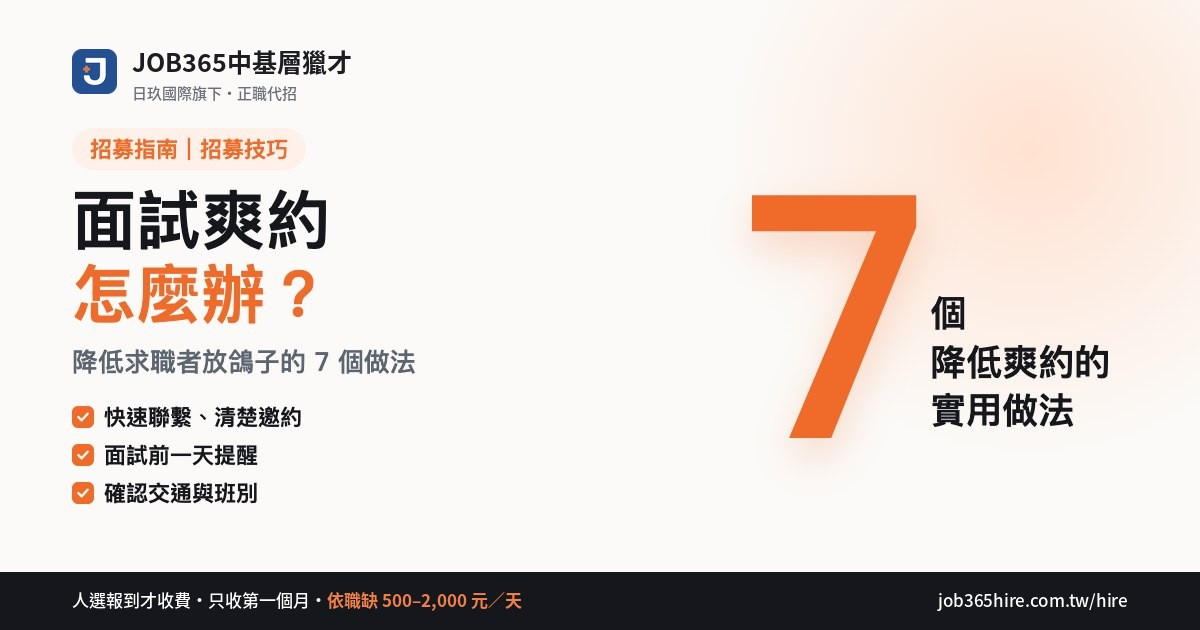
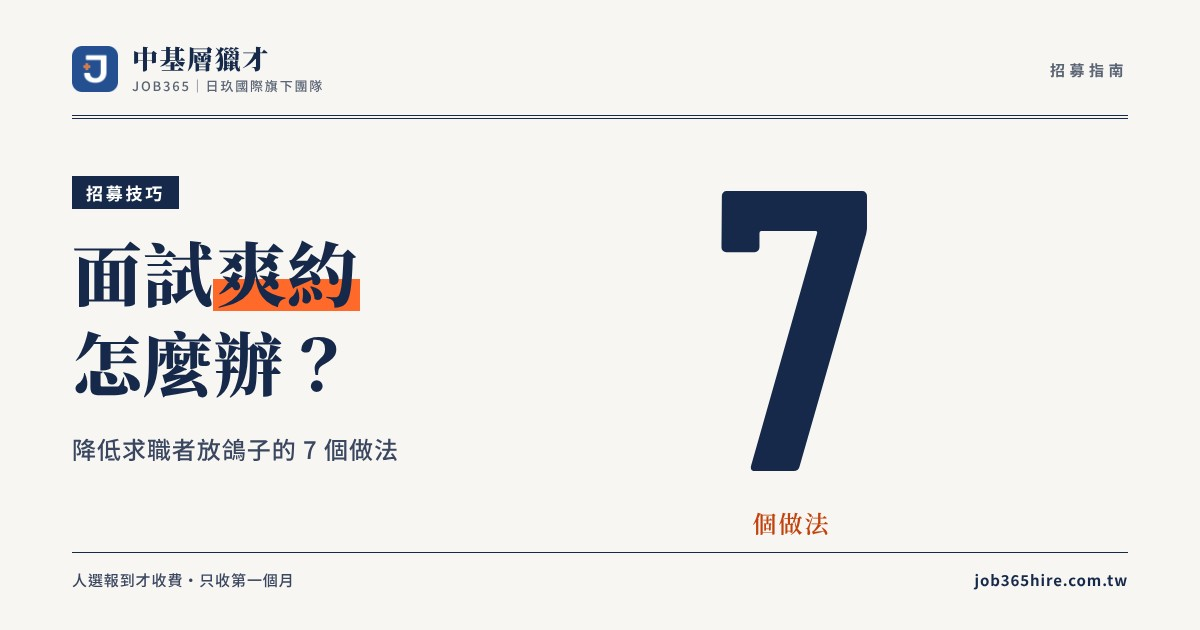
招募指南封面改成報紙風（7 張），補設備工程師、新竹薪資兩篇封面
Claude-Session: https://claude.ai/code/session_01QrdtCWQutDZ8DS6ZUmwoLm

diff --git a/hire/guide/what-is-recruitment-outsourcing.html b/hire/guide/what-is-recruitment-outsourcing.html
@@ -79,10 +79,10 @@ visibleID = setInterval(() => {
 <meta property="og:type" content="article">
 <meta property="og:title" content="代招是什麼？正職代招和派遣、人力銀行、獵頭一次比較">
 <meta property="og:description" content="代招（正職代招、委託招募）是企業委託代招團隊找人、篩人，人選錄取後直接成為企業自己的正職員工，勞健保由企業投保。本文整理代招和派遣、人力銀行、獵頭的差別，代招收費的法定上限、委託流程、不適合用代招的情況與常見問題。">
-<meta property="og:image" content="https://job365hire.com.tw/hire/guide/cover-what-is-recruitment-outsourcing.jpg?v=2">
+<meta property="og:image" content="https://job365hire.com.tw/hire/guide/cover-what-is-recruitment-outsourcing.jpg?v=3">
 <meta property="og:url" content="https://job365hire.com.tw/hire/guide/what-is-recruitment-outsourcing.html">
 <script type="application/ld+json">
-[{"@context": "https://schema.org", "@type": "Article", "headline": "代招是什麼？正職代招和派遣、人力銀行、獵頭一次比較", "datePublished": "2026-10-30", "dateModified": "2026-11-12", "about": "正職代招", "keywords": "代招,代招是什麼,正職代招,委託招募,代招費用,代招收費上限,代招公司,代招 派遣 差別,代招 勞健保,中基層獵才,人力仲介,人力仲介 代招 差別", "inLanguage": "zh-Hant-TW", "image": "https://job365hire.com.tw/hire/guide/cover-what-is-recruitment-outsourcing.jpg?v=2", "author": {"@id": "https://job365hire.com.tw/#org"}, "publisher": {"@id": "https://job365hire.com.tw/#org"}, "mainEntityOfPage": "https://job365hire.com.tw/hire/guide/what-is-recruitment-outsourcing.html", "description": "代招（正職代招、委託招募）是企業委託代招團隊找人、篩人，人選錄取後直接成為企業自己的正職員工，勞健保由企業投保。本文整理代招和派遣、人力銀行、獵頭的差別，代招收費的法定上限、委託流程、不適合用代招的情況與常見問題。"}, {"@context": "https://schema.org", "@type": "BreadcrumbList", "itemListElement": [{"@type": "ListItem", "position": 1, "name": "JOB365", "item": "https://job365hire.com.tw/"}, {"@type": "ListItem", "position": 2, "name": "正職代招", "item": "https://job365hire.com.tw/hire/"}, {"@type": "ListItem", "position": 3, "name": "招募指南", "item": "https://job365hire.com.tw/hire/guide/"}, {"@type": "ListItem", "position": 4, "name": "代招是什麼？"}]}, {"@context": "https://schema.org", "@type": "FAQPage", "mainEntity": [{"@type": "Question", "name": "代招是什麼意思？", "acceptedAnswer": {"@type": "Answer", "text": "代招又稱正職代招、委託招募，是企業委託代招團隊找人、篩人、安排面試，人選錄取後直接和企業簽約，成為企業自己的正職員工。"}}, {"@type": "Question", "name": "正職代招和派遣有什麼不同？", "acceptedAnswer": {"@type": "Answer", "text": "正職代招的人選錄取後直接成為企業的正職員工；派遣人員和派遣公司簽約，企業是要派單位，費用每月持續支付。"}}, {"@type": "Question", "name": "正職代招和人力銀行有什麼不同？", "acceptedAnswer": {"@type": "Answer", "text": "人力銀行由企業自己刊登、自己篩選；正職代招由顧問主動獵才、一對一面談後才推薦人選。"}}, {"@type": "Question", "name": "人力仲介和正職代招有什麼不同？", "acceptedAnswer": {"@type": "Answer", "text": "人力仲介多半指引進外籍移工的跨國仲介；正職代招找的是本國籍中基層正職員工，錄取後直接成為企業的員工。兩者都是私立就業服務機構的業務，都需要許可。"}}, {"@type": "Question", "name": "代招找到的員工，勞健保算誰的？", "acceptedAnswer": {"@type": "Answer", "text": "算企業的。人選錄取後和企業簽勞動契約，由企業發薪、投保勞健保與提繳勞退，代招公司不是雇主。"}}, {"@type": "Question", "name": "代招收費有沒有上限？", "acceptedAnswer": {"@type": "Answer", "text": "有。依勞動部〈私立就業服務機構收費項目及金額標準〉，員工第一個月薪資在平均薪資以下者，登記費及介紹費合計不得超過其第一個月薪資；超過平均薪資者不得超過四個月薪資；服務費每人每年不得超過 2,000 元。"}}, {"@type": "Question", "name": "代招費用一定要人選到職才付嗎？", "acceptedAnswer": {"@type": "Answer", "text": "各家做法不同，委託前要問清楚。中基層獵才不收開案費、訂金，人選報到才收費。"}}, {"@type": "Question", "name": "什麼職缺適合正職代招？", "acceptedAnswer": {"@type": "Answer", "text": "會計、客服、設備工程師、倉管、助理工程師、行政與業務助理等中基層正職，特別適合職缺開很久沒人投、沒有專職 HR 或一次要補多人的企業。"}}, {"@type": "Question", "name": "公司規模小，也可以用代招嗎？", "acceptedAnswer": {"@type": "Answer", "text": "可以。沒有專職 HR 的中小企業反而最適合，由顧問處理找人、篩人與面試安排，老闆只需要面試最後幾位人選。"}}, {"@type": "Question", "name": "正職代招怎麼收費？", "acceptedAnswer": {"@type": "Answer", "text": "中基層獵才人選報到才收費，只收第一個月，依職缺 500～2,000 元／天，最多約人選一個月薪資，第二個月起不再收費。"}}]}]
+[{"@context": "https://schema.org", "@type": "Article", "headline": "代招是什麼？正職代招和派遣、人力銀行、獵頭一次比較", "datePublished": "2026-10-30", "dateModified": "2026-11-12", "about": "正職代招", "keywords": "代招,代招是什麼,正職代招,委託招募,代招費用,代招收費上限,代招公司,代招 派遣 差別,代招 勞健保,中基層獵才,人力仲介,人力仲介 代招 差別", "inLanguage": "zh-Hant-TW", "image": "https://job365hire.com.tw/hire/guide/cover-what-is-recruitment-outsourcing.jpg?v=3", "author": {"@id": "https://job365hire.com.tw/#org"}, "publisher": {"@id": "https://job365hire.com.tw/#org"}, "mainEntityOfPage": "https://job365hire.com.tw/hire/guide/what-is-recruitment-outsourcing.html", "description": "代招（正職代招、委託招募）是企業委託代招團隊找人、篩人，人選錄取後直接成為企業自己的正職員工，勞健保由企業投保。本文整理代招和派遣、人力銀行、獵頭的差別，代招收費的法定上限、委託流程、不適合用代招的情況與常見問題。"}, {"@context": "https://schema.org", "@type": "BreadcrumbList", "itemListElement": [{"@type": "ListItem", "position": 1, "name": "JOB365", "item": "https://job365hire.com.tw/"}, {"@type": "ListItem", "position": 2, "name": "正職代招", "item": "https://job365hire.com.tw/hire/"}, {"@type": "ListItem", "position": 3, "name": "招募指南", "item": "https://job365hire.com.tw/hire/guide/"}, {"@type": "ListItem", "position": 4, "name": "代招是什麼？"}]}, {"@context": "https://schema.org", "@type": "FAQPage", "mainEntity": [{"@type": "Question", "name": "代招是什麼意思？", "acceptedAnswer": {"@type": "Answer", "text": "代招又稱正職代招、委託招募，是企業委託代招團隊找人、篩人、安排面試，人選錄取後直接和企業簽約，成為企業自己的正職員工。"}}, {"@type": "Question", "name": "正職代招和派遣有什麼不同？", "acceptedAnswer": {"@type": "Answer", "text": "正職代招的人選錄取後直接成為企業的正職員工；派遣人員和派遣公司簽約，企業是要派單位，費用每月持續支付。"}}, {"@type": "Question", "name": "正職代招和人力銀行有什麼不同？", "acceptedAnswer": {"@type": "Answer", "text": "人力銀行由企業自己刊登、自己篩選；正職代招由顧問主動獵才、一對一面談後才推薦人選。"}}, {"@type": "Question", "name": "人力仲介和正職代招有什麼不同？", "acceptedAnswer": {"@type": "Answer", "text": "人力仲介多半指引進外籍移工的跨國仲介；正職代招找的是本國籍中基層正職員工，錄取後直接成為企業的員工。兩者都是私立就業服務機構的業務，都需要許可。"}}, {"@type": "Question", "name": "代招找到的員工，勞健保算誰的？", "acceptedAnswer": {"@type": "Answer", "text": "算企業的。人選錄取後和企業簽勞動契約，由企業發薪、投保勞健保與提繳勞退，代招公司不是雇主。"}}, {"@type": "Question", "name": "代招收費有沒有上限？", "acceptedAnswer": {"@type": "Answer", "text": "有。依勞動部〈私立就業服務機構收費項目及金額標準〉，員工第一個月薪資在平均薪資以下者，登記費及介紹費合計不得超過其第一個月薪資；超過平均薪資者不得超過四個月薪資；服務費每人每年不得超過 2,000 元。"}}, {"@type": "Question", "name": "代招費用一定要人選到職才付嗎？", "acceptedAnswer": {"@type": "Answer", "text": "各家做法不同，委託前要問清楚。中基層獵才不收開案費、訂金，人選報到才收費。"}}, {"@type": "Question", "name": "什麼職缺適合正職代招？", "acceptedAnswer": {"@type": "Answer", "text": "會計、客服、設備工程師、倉管、助理工程師、行政與業務助理等中基層正職，特別適合職缺開很久沒人投、沒有專職 HR 或一次要補多人的企業。"}}, {"@type": "Question", "name": "公司規模小，也可以用代招嗎？", "acceptedAnswer": {"@type": "Answer", "text": "可以。沒有專職 HR 的中小企業反而最適合，由顧問處理找人、篩人與面試安排，老闆只需要面試最後幾位人選。"}}, {"@type": "Question", "name": "正職代招怎麼收費？", "acceptedAnswer": {"@type": "Answer", "text": "中基層獵才人選報到才收費，只收第一個月，依職缺 500～2,000 元／天，最多約人選一個月薪資，第二個月起不再收費。"}}]}]
 </script>
 
 <script>!function(f,b,e,v,n,t,s){if(f.fbq)return;n=f.fbq=function(){n.callMethod?n.callMethod.apply(n,arguments):n.queue.push(arguments)};if(!f._fbq)f._fbq=n;n.push=n;n.loaded=!0;n.version='2.0';n.queue=[];t=b.createElement(e);t.async=!0;t.src=v;s=b.getElementsByTagName(e)[0];s.parentNode.insertBefore(t,s)}(window,document,'script','https://connect.facebook.net/en_US/fbevents.js');fbq('init','1635805244779203');fbq('track','PageView');document.addEventListener('click',function(e){var a=e.target.closest&&e.target.closest('a[href]');if(a&&/^(tel:|https:\/\/(line\.me|lin\.ee)\/)/.test(a.getAttribute('href')))fbq('track','Contact');});</script>
@@ -107,7 +107,7 @@ visibleID = setInterval(() => {
   <p class="tag">代招入門</p>
   <h1>代招是什麼？正職代招和派遣、人力銀行、獵頭一次比較</h1>
   <p class="meta">JOB365中基層獵才・2026 年 10 月 30 日發布・<time datetime="2026-11-11">2026 年 11 月 11 日更新</time></p>
-  <img class="cover" src="/hire/guide/cover-what-is-recruitment-outsourcing.jpg?v=2" alt="代招是什麼？正職代招和派遣、人力銀行、獵頭一次比較" width="1200" height="630" style="width:100%;height:auto">
+  <img class="cover" src="/hire/guide/cover-what-is-recruitment-outsourcing.jpg?v=3" alt="代招是什麼？正職代招和派遣、人力銀行、獵頭一次比較" width="1200" height="630" style="width:100%;height:auto">
 
   <p class="answer"><b>簡答：</b>代招（正職代招、委託招募）是企業把找人、篩人、安排面試交給代招團隊，人選錄取後直接和企業簽約、成為企業自己的正職員工，勞健保由企業投保；派遣人員則屬於派遣公司，企業每月持續支付派遣費。代招的收費依法有上限，中基層獵才只收第一個月、最多約一個月薪資。適合要補長期正職、又沒時間自己篩人的企業；只需要幾週到幾個月的短期人力，則比較適合派遣。</p>
 

diff --git a/hire/guide/recruitment-fee.html b/hire/guide/recruitment-fee.html
@@ -79,9 +79,9 @@ visibleID = setInterval(() => {
 <meta property="og:type" content="article">
 <meta property="og:title" content="徵才費用怎麼算？人力銀行刊登、獵頭、正職代招收費比較">
 <meta property="og:description" content="徵才費用怎麼算？比較人力銀行刊登、獵頭與正職代招的收費方式、適用情境與費用差異。中基層獵才採人選報到才收費，只收第一個月，最多約一個月薪資；附作業員費用試算。">
-<meta property="og:image" content="https://job365hire.com.tw/hire/guide/cover-recruitment-fee.jpg?v=2">
+<meta property="og:image" content="https://job365hire.com.tw/hire/guide/cover-recruitment-fee.jpg?v=3">
 <meta property="og:url" content="https://job365hire.com.tw/hire/guide/recruitment-fee.html">
-<script type="application/ld+json">[{"@context": "https://schema.org", "@type": "Article", "headline": "徵才費用怎麼算？人力銀行刊登、獵頭、正職代招收費比較", "datePublished": "2026-10-30", "dateModified": "2026-11-11", "about": "正職代招", "keywords": "徵才費用,求才費用,徵人費用,找人才費用,人力銀行刊登費用,正職代招費用,代招費用,代招收費,代招收費上限,私立就業服務機構收費標準,獵頭費用,基層招募費用,中基層獵才", "inLanguage": "zh-Hant-TW", "image": "https://job365hire.com.tw/hire/guide/cover-recruitment-fee.jpg?v=2", "author": {"@id": "https://job365hire.com.tw/#org"}, "publisher": {"@id": "https://job365hire.com.tw/#org"}, "mainEntityOfPage": "https://job365hire.com.tw/hire/guide/recruitment-fee.html"}, {"@context": "https://schema.org", "@type": "BreadcrumbList", "itemListElement": [{"@type": "ListItem", "position": 1, "name": "JOB365", "item": "https://job365hire.com.tw/"}, {"@type": "ListItem", "position": 2, "name": "正職代招", "item": "https://job365hire.com.tw/hire/"}, {"@type": "ListItem", "position": 3, "name": "招募指南", "item": "https://job365hire.com.tw/hire/guide/"}, {"@type": "ListItem", "position": 4, "name": "正職代招費用怎麼算？"}]}, {"@context": "https://schema.org", "@type": "FAQPage", "mainEntity": [{"@type": "Question", "name": "人力銀行刊登徵才要多少錢？", "acceptedAnswer": {"@type": "Answer", "text": "以 104 人力銀行為例，2026 年 11 月公告的刊登方案原價為 30 天 4,600 元、90 天 9,200 元、365 天 34,500 元；新客首購另有 10 天單職缺 588 元、60 天 3 職缺 3,988 元的體驗方案。刊登費買的是職缺曝光，不保證找到人，篩選與面試仍需企業自己處理。方案價格常調整，以官方最新公告為準。"}}, {"@type": "Question", "name": "正職代招費用怎麼算？", "acceptedAnswer": {"@type": "Answer", "text": "中基層獵才的正職代招只收人選第一個月：依職缺 500～2,000 元／天計算，最多約人選一個月薪資，第二個月起不再收費。人選沒有報到就不收費。"}}, {"@type": "Question", "name": "代招收費有沒有法定上限？", "acceptedAnswer": {"@type": "Answer", "text": "有。依勞動部〈私立就業服務機構收費項目及金額標準〉，員工第一個月薪資在平均薪資以下者，登記費及介紹費合計不得超過其第一個月薪資；超過平均薪資者不得超過四個月薪資；服務費每人每年不得超過 2,000 元。"}}, {"@type": "Question", "name": "代招需要先付訂金或開案費嗎？", "acceptedAnswer": {"@type": "Answer", "text": "不需要。中基層獵才不收開案費、訂金，人選報到才收費。"}}, {"@type": "Question", "name": "人選做不滿一個月怎麼算？", "acceptedAnswer": {"@type": "Answer", "text": "人選到職未滿 30 天，按實際在職天數計費，例如日費 500 元、做 10 天就是 5,000 元。"}}, {"@type": "Question", "name": "獵頭一般怎麼收費？", "acceptedAnswer": {"@type": "Answer", "text": "根據 104 職場力整理，獵頭多以年薪的 20%～35% 收費，月薪型專案約 1～3 個月月薪，主要針對中高階職位。"}}, {"@type": "Question", "name": "招一位作業員，代招費用大概多少？", "acceptedAnswer": {"@type": "Answer", "text": "以月薪 32,000 元為例，法定上限是 32,000 元；中基層獵才依職缺 500～2,000 元／天、按第一個月在職天數計算；日費 500 元時做滿一個月是 15,000 元，不超過法定上限。"}}, {"@type": "Question", "name": "中基層獵才有保證期或免費遞補嗎？", "acceptedAnswer": {"@type": "Answer", "text": "中基層獵才不同於高額抽成保固模式，採取平價收費，目前無另設保證期。費用依人選第一個月實際在職天數計算，依職缺 500～2,000 元／天，例如日費 500 元、人選做 10 天，費用就是 5,000 元；到職未滿 30 天的情況，顧問也會再依實際狀況跟你討論。人選報到後第一週顧問會主動關心，之後持續追蹤適應狀況。"}}]}]</script>
+<script type="application/ld+json">[{"@context": "https://schema.org", "@type": "Article", "headline": "徵才費用怎麼算？人力銀行刊登、獵頭、正職代招收費比較", "datePublished": "2026-10-30", "dateModified": "2026-11-11", "about": "正職代招", "keywords": "徵才費用,求才費用,徵人費用,找人才費用,人力銀行刊登費用,正職代招費用,代招費用,代招收費,代招收費上限,私立就業服務機構收費標準,獵頭費用,基層招募費用,中基層獵才", "inLanguage": "zh-Hant-TW", "image": "https://job365hire.com.tw/hire/guide/cover-recruitment-fee.jpg?v=3", "author": {"@id": "https://job365hire.com.tw/#org"}, "publisher": {"@id": "https://job365hire.com.tw/#org"}, "mainEntityOfPage": "https://job365hire.com.tw/hire/guide/recruitment-fee.html"}, {"@context": "https://schema.org", "@type": "BreadcrumbList", "itemListElement": [{"@type": "ListItem", "position": 1, "name": "JOB365", "item": "https://job365hire.com.tw/"}, {"@type": "ListItem", "position": 2, "name": "正職代招", "item": "https://job365hire.com.tw/hire/"}, {"@type": "ListItem", "position": 3, "name": "招募指南", "item": "https://job365hire.com.tw/hire/guide/"}, {"@type": "ListItem", "position": 4, "name": "正職代招費用怎麼算？"}]}, {"@context": "https://schema.org", "@type": "FAQPage", "mainEntity": [{"@type": "Question", "name": "人力銀行刊登徵才要多少錢？", "acceptedAnswer": {"@type": "Answer", "text": "以 104 人力銀行為例，2026 年 11 月公告的刊登方案原價為 30 天 4,600 元、90 天 9,200 元、365 天 34,500 元；新客首購另有 10 天單職缺 588 元、60 天 3 職缺 3,988 元的體驗方案。刊登費買的是職缺曝光，不保證找到人，篩選與面試仍需企業自己處理。方案價格常調整，以官方最新公告為準。"}}, {"@type": "Question", "name": "正職代招費用怎麼算？", "acceptedAnswer": {"@type": "Answer", "text": "中基層獵才的正職代招只收人選第一個月：依職缺 500～2,000 元／天計算，最多約人選一個月薪資，第二個月起不再收費。人選沒有報到就不收費。"}}, {"@type": "Question", "name": "代招收費有沒有法定上限？", "acceptedAnswer": {"@type": "Answer", "text": "有。依勞動部〈私立就業服務機構收費項目及金額標準〉，員工第一個月薪資在平均薪資以下者，登記費及介紹費合計不得超過其第一個月薪資；超過平均薪資者不得超過四個月薪資；服務費每人每年不得超過 2,000 元。"}}, {"@type": "Question", "name": "代招需要先付訂金或開案費嗎？", "acceptedAnswer": {"@type": "Answer", "text": "不需要。中基層獵才不收開案費、訂金，人選報到才收費。"}}, {"@type": "Question", "name": "人選做不滿一個月怎麼算？", "acceptedAnswer": {"@type": "Answer", "text": "人選到職未滿 30 天，按實際在職天數計費，例如日費 500 元、做 10 天就是 5,000 元。"}}, {"@type": "Question", "name": "獵頭一般怎麼收費？", "acceptedAnswer": {"@type": "Answer", "text": "根據 104 職場力整理，獵頭多以年薪的 20%～35% 收費，月薪型專案約 1～3 個月月薪，主要針對中高階職位。"}}, {"@type": "Question", "name": "招一位作業員，代招費用大概多少？", "acceptedAnswer": {"@type": "Answer", "text": "以月薪 32,000 元為例，法定上限是 32,000 元；中基層獵才依職缺 500～2,000 元／天、按第一個月在職天數計算；日費 500 元時做滿一個月是 15,000 元，不超過法定上限。"}}, {"@type": "Question", "name": "中基層獵才有保證期或免費遞補嗎？", "acceptedAnswer": {"@type": "Answer", "text": "中基層獵才不同於高額抽成保固模式，採取平價收費，目前無另設保證期。費用依人選第一個月實際在職天數計算，依職缺 500～2,000 元／天，例如日費 500 元、人選做 10 天，費用就是 5,000 元；到職未滿 30 天的情況，顧問也會再依實際狀況跟你討論。人選報到後第一週顧問會主動關心，之後持續追蹤適應狀況。"}}]}]</script>
 
 <script>!function(f,b,e,v,n,t,s){if(f.fbq)return;n=f.fbq=function(){n.callMethod?n.callMethod.apply(n,arguments):n.queue.push(arguments)};if(!f._fbq)f._fbq=n;n.push=n;n.loaded=!0;n.version='2.0';n.queue=[];t=b.createElement(e);t.async=!0;t.src=v;s=b.getElementsByTagName(e)[0];s.parentNode.insertBefore(t,s)}(window,document,'script','https://connect.facebook.net/en_US/fbevents.js');fbq('init','1635805244779203');fbq('track','PageView');document.addEventListener('click',function(e){var a=e.target.closest&&e.target.closest('a[href]');if(a&&/^(tel:|https:\/\/(line\.me|lin\.ee)\/)/.test(a.getAttribute('href')))fbq('track','Contact');});</script>
 <noscript><img height="1" width="1" style="display:none" src="https://www.facebook.com/tr?id=1635805244779203&ev=PageView&noscript=1" alt=""></noscript>
@@ -105,7 +105,7 @@ visibleID = setInterval(() => {
   <p class="tag">招募費用</p>
   <h1>徵才費用怎麼算？人力銀行刊登、獵頭、正職代招收費比較</h1>
   <p class="meta">JOB365中基層獵才・2026 年 10 月 30 日發布・<time datetime="2026-11-11">2026 年 11 月 11 日更新</time></p>
-  <img class="cover" src="/hire/guide/cover-recruitment-fee.jpg?v=2" alt="徵才費用怎麼算？人力銀行刊登、獵頭、正職代招收費比較" width="1200" height="630" style="width:100%;height:auto">
+  <img class="cover" src="/hire/guide/cover-recruitment-fee.jpg?v=3" alt="徵才費用怎麼算？人力銀行刊登、獵頭、正職代招收費比較" width="1200" height="630" style="width:100%;height:auto">
 
   <p class="answer"><b>簡答：</b>徵才費用（也常說求才費用、徵人費用、找人才費用）主要有 3 種：自己刊登人力銀行，以 104 為例原價 30 天 4,600 元、90 天 9,200 元，新客另有 10 天 588 元的體驗方案，但買到的是職缺曝光，不保證找到人。找獵頭多收年薪的 20%～35%。中基層獵才的正職代招則是人選報到才收費，只收第一個月，依職缺每天 500～2,000 元，最多約人選一個月薪資，第二個月起不再收費。中小企業補中基層正職時，HR 有時間自己篩履歷，可以先刊登人力銀行；沒時間篩人、職缺又空了一段時間，就交給正職代招，費用最多約一個月薪資，比月薪計費的獵頭低。</p>
 

diff --git a/hire/guide/equipment-engineer-hiring.html b/hire/guide/equipment-engineer-hiring.html
@@ -79,10 +79,10 @@ visibleID = setInterval(() => {
 <meta property="og:type" content="article">
 <meta property="og:title" content="設備工程師怎麼招？中小企業跟大廠搶人的 6 個做法">
 <meta property="og:description" content="半導體廠與設備商大舉擴編，設備工程師越來越難招。整理全台各區的招募重點，以及中小企業可以馬上做的 6 件事：寫清楚機台與班別、實拿薪資、放寬背景、情境面試、加快錄取與交給正職代招。">
-<meta property="og:image" content="https://job365hire.com.tw/hire/og-hire.jpg?v=3">
+<meta property="og:image" content="https://job365hire.com.tw/hire/guide/cover-equipment-engineer-hiring.jpg?v=3">
 <meta property="og:url" content="https://job365hire.com.tw/hire/guide/equipment-engineer-hiring.html">
 <script type="application/ld+json">
-[{"@context": "https://schema.org", "@type": "Article", "headline": "設備工程師怎麼招？中小企業跟大廠搶人的 6 個做法", "description": "半導體廠與設備商大舉擴編，設備工程師越來越難招。整理全台各區的招募重點，以及中小企業可以馬上做的 6 件事：寫清楚機台與班別、實拿薪資、放寬背景、情境面試、加快錄取與交給正職代招。", "datePublished": "2026-11-12", "dateModified": "2026-11-12", "about": "正職代招", "keywords": "設備工程師怎麼招,設備工程師招募,設備工程師難招,設備助理工程師,半導體缺工,正職代招", "inLanguage": "zh-Hant-TW", "image": "https://job365hire.com.tw/hire/og-hire.jpg?v=3", "author": {"@id": "https://job365hire.com.tw/#org"}, "publisher": {"@id": "https://job365hire.com.tw/#org"}, "mainEntityOfPage": "https://job365hire.com.tw/hire/guide/equipment-engineer-hiring.html"}, {"@context": "https://schema.org", "@type": "BreadcrumbList", "itemListElement": [{"@type": "ListItem", "position": 1, "name": "JOB365", "item": "https://job365hire.com.tw/"}, {"@type": "ListItem", "position": 2, "name": "正職代招", "item": "https://job365hire.com.tw/hire/"}, {"@type": "ListItem", "position": 3, "name": "招募指南", "item": "https://job365hire.com.tw/hire/guide/"}, {"@type": "ListItem", "position": 4, "name": "設備工程師怎麼招？"}]}, {"@context": "https://schema.org", "@type": "FAQPage", "mainEntity": [{"@type": "Question", "name": "設備工程師為什麼這麼難招？", "acceptedAnswer": {"@type": "Answer", "text": "半導體廠、設備商與供應鏈同時擴編。104 與工研院調查，2025 年 5 月半導體業操作／技術／維修類缺約 7,000 人，有經驗的人選很搶手。"}}, {"@type": "Question", "name": "設備工程師和設備助理工程師差在哪？", "acceptedAnswer": {"@type": "Answer", "text": "設備工程師通常要能獨立排除機台故障；設備助理工程師多以協助保養、記錄數據為主，比較適合招新鮮人或轉職者培養。"}}, {"@type": "Question", "name": "設備工程師人選最在意什麼？", "acceptedAnswer": {"@type": "Answer", "text": "依 JOB365中基層獵才顧問的經驗，設備工程師人選多在 35～45 歲，除了薪資，也很在意班別、體力負擔、工作壓力和家庭時間。輪班方式是很重要的考量。"}}, {"@type": "Question", "name": "設備工程師職缺要怎麼寫才有人投？", "acceptedAnswer": {"@type": "Answer", "text": "寫出產業與機台類型、班別、要不要 on call 與出差，以及含津貼的實拿薪資範圍，並註明願意培養電機、機械背景的人。"}}, {"@type": "Question", "name": "設備工程師可以找代招嗎？", "acceptedAnswer": {"@type": "Answer", "text": "可以。JOB365中基層獵才服務全台，人選報到才收費，只收第一個月、最多約一個月薪資，第二個月起不再收費。"}}]}]
+[{"@context": "https://schema.org", "@type": "Article", "headline": "設備工程師怎麼招？中小企業跟大廠搶人的 6 個做法", "description": "半導體廠與設備商大舉擴編，設備工程師越來越難招。整理全台各區的招募重點，以及中小企業可以馬上做的 6 件事：寫清楚機台與班別、實拿薪資、放寬背景、情境面試、加快錄取與交給正職代招。", "datePublished": "2026-11-12", "dateModified": "2026-11-12", "about": "正職代招", "keywords": "設備工程師怎麼招,設備工程師招募,設備工程師難招,設備助理工程師,半導體缺工,正職代招", "inLanguage": "zh-Hant-TW", "image": "https://job365hire.com.tw/hire/guide/cover-equipment-engineer-hiring.jpg?v=3", "author": {"@id": "https://job365hire.com.tw/#org"}, "publisher": {"@id": "https://job365hire.com.tw/#org"}, "mainEntityOfPage": "https://job365hire.com.tw/hire/guide/equipment-engineer-hiring.html"}, {"@context": "https://schema.org", "@type": "BreadcrumbList", "itemListElement": [{"@type": "ListItem", "position": 1, "name": "JOB365", "item": "https://job365hire.com.tw/"}, {"@type": "ListItem", "position": 2, "name": "正職代招", "item": "https://job365hire.com.tw/hire/"}, {"@type": "ListItem", "position": 3, "name": "招募指南", "item": "https://job365hire.com.tw/hire/guide/"}, {"@type": "ListItem", "position": 4, "name": "設備工程師怎麼招？"}]}, {"@context": "https://schema.org", "@type": "FAQPage", "mainEntity": [{"@type": "Question", "name": "設備工程師為什麼這麼難招？", "acceptedAnswer": {"@type": "Answer", "text": "半導體廠、設備商與供應鏈同時擴編。104 與工研院調查，2025 年 5 月半導體業操作／技術／維修類缺約 7,000 人，有經驗的人選很搶手。"}}, {"@type": "Question", "name": "設備工程師和設備助理工程師差在哪？", "acceptedAnswer": {"@type": "Answer", "text": "設備工程師通常要能獨立排除機台故障；設備助理工程師多以協助保養、記錄數據為主，比較適合招新鮮人或轉職者培養。"}}, {"@type": "Question", "name": "設備工程師人選最在意什麼？", "acceptedAnswer": {"@type": "Answer", "text": "依 JOB365中基層獵才顧問的經驗，設備工程師人選多在 35～45 歲，除了薪資，也很在意班別、體力負擔、工作壓力和家庭時間。輪班方式是很重要的考量。"}}, {"@type": "Question", "name": "設備工程師職缺要怎麼寫才有人投？", "acceptedAnswer": {"@type": "Answer", "text": "寫出產業與機台類型、班別、要不要 on call 與出差，以及含津貼的實拿薪資範圍，並註明願意培養電機、機械背景的人。"}}, {"@type": "Question", "name": "設備工程師可以找代招嗎？", "acceptedAnswer": {"@type": "Answer", "text": "可以。JOB365中基層獵才服務全台，人選報到才收費，只收第一個月、最多約一個月薪資，第二個月起不再收費。"}}]}]
 </script>
 
 <script>!function(f,b,e,v,n,t,s){if(f.fbq)return;n=f.fbq=function(){n.callMethod?n.callMethod.apply(n,arguments):n.queue.push(arguments)};if(!f._fbq)f._fbq=n;n.push=n;n.loaded=!0;n.version='2.0';n.queue=[];t=b.createElement(e);t.async=!0;t.src=v;s=b.getElementsByTagName(e)[0];s.parentNode.insertBefore(t,s)}(window,document,'script','https://connect.facebook.net/en_US/fbevents.js');fbq('init','1635805244779203');fbq('track','PageView');document.addEventListener('click',function(e){var a=e.target.closest&&e.target.closest('a[href]');if(a&&/^(tel:|https:\/\/(line\.me|lin\.ee)\/)/.test(a.getAttribute('href')))fbq('track','Contact');});</script>
@@ -107,6 +107,7 @@ visibleID = setInterval(() => {
   <p class="tag">招募技巧</p>
   <h1>設備工程師怎麼招？中小企業跟大廠搶人的 6 個做法</h1>
   <p class="meta">JOB365中基層獵才・2026 年 11 月 12 日</p>
+  <img class="cover" src="/hire/guide/cover-equipment-engineer-hiring.jpg?v=3" alt="設備工程師怎麼招？中小企業跟大廠搶人的 6 個做法" width="1200" height="630" style="width:100%;height:auto">
 
   <p class="answer"><b>簡答：</b>設備工程師難招，是因為半導體廠、設備商和供應鏈同時擴編，有經驗的人選被搶得很兇。中小企業要先講清楚是哪種機台、什麼班別、要不要 on call 和出差、實拿薪資範圍，願意培養電機、機械背景的人，面試當天就給答覆。如果職缺開了一個月還約不到合適的人，就適合交給正職代招主動找人。</p>
 

diff --git a/hire/guide/hsinchu-operator-salary.html b/hire/guide/hsinchu-operator-salary.html
@@ -79,10 +79,10 @@ visibleID = setInterval(() => {
 <meta property="og:type" content="article">
 <meta property="og:title" content="新竹作業員薪資行情怎麼看？2027 基本工資調漲後的招募重點">
 <meta property="og:description" content="2027 年起基本工資調為月薪 30,900 元、時薪 205 元。整理新竹作業員薪資行情怎麼查、竹科大廠搶人下中小企業的招募重點，以及日玖國際旗下中基層獵才的正職代招收費方式。">
-<meta property="og:image" content="https://job365hire.com.tw/hire/og-hire.jpg?v=3">
+<meta property="og:image" content="https://job365hire.com.tw/hire/guide/cover-hsinchu-operator-salary.jpg?v=3">
 <meta property="og:url" content="https://job365hire.com.tw/hire/guide/hsinchu-operator-salary.html">
 <script type="application/ld+json">
-[{"@context": "https://schema.org", "@type": "Article", "headline": "新竹作業員薪資行情怎麼看？2027 基本工資調漲後的招募重點", "description": "2027 年起基本工資調為月薪 30,900 元、時薪 205 元。整理新竹作業員薪資行情怎麼查、竹科大廠搶人下中小企業的招募重點，以及日玖國際旗下中基層獵才的正職代招收費方式。", "datePublished": "2026-11-07", "dateModified": "2026-11-07", "about": ["新竹作業員薪資", "正職代招"], "keywords": "新竹作業員薪資,新竹作業員招募,2027基本工資,竹科缺工,新竹代招,正職代招", "inLanguage": "zh-Hant-TW", "image": "https://job365hire.com.tw/hire/og-hire.jpg?v=3", "author": {"@id": "https://job365hire.com.tw/#org"}, "publisher": {"@id": "https://job365hire.com.tw/#org"}, "mainEntityOfPage": "https://job365hire.com.tw/hire/guide/hsinchu-operator-salary.html"}, {"@context": "https://schema.org", "@type": "BreadcrumbList", "itemListElement": [{"@type": "ListItem", "position": 1, "name": "JOB365", "item": "https://job365hire.com.tw/"}, {"@type": "ListItem", "position": 2, "name": "正職代招", "item": "https://job365hire.com.tw/hire/"}, {"@type": "ListItem", "position": 3, "name": "招募指南", "item": "https://job365hire.com.tw/hire/guide/"}, {"@type": "ListItem", "position": 4, "name": "新竹作業員薪資行情"}]}, {"@context": "https://schema.org", "@type": "FAQPage", "mainEntity": [{"@type": "Question", "name": "2027 年基本工資是多少？", "acceptedAnswer": {"@type": "Answer", "text": "2027 年 1 月 1 日起，每月最低工資 30,900 元、每小時 205 元，由最低工資審議會於 2026 年 9 月 24 日決議。"}}, {"@type": "Question", "name": "新竹作業員薪資要開多少才有人投？", "acceptedAnswer": {"@type": "Answer", "text": "底薪不得低於 30,900 元；實際開價建議參考同區域、同班別的職缺，並寫出含津貼與加班的實拿範圍。"}}, {"@type": "Question", "name": "新竹中小企業怎麼跟竹科大廠搶作業員？", "acceptedAnswer": {"@type": "Answer", "text": "強調通勤近、班別穩定與福利亮點，並在履歷進來當天聯繫、早點給結果，用速度補足薪資差距。"}}, {"@type": "Question", "name": "新竹有作業員的正職代招服務嗎？", "acceptedAnswer": {"@type": "Answer", "text": "有。中基層獵才是日玖國際旗下團隊，總公司在新竹，人選報到才收費，只收第一個月、最多約一個月薪資。"}}]}]
+[{"@context": "https://schema.org", "@type": "Article", "headline": "新竹作業員薪資行情怎麼看？2027 基本工資調漲後的招募重點", "description": "2027 年起基本工資調為月薪 30,900 元、時薪 205 元。整理新竹作業員薪資行情怎麼查、竹科大廠搶人下中小企業的招募重點，以及日玖國際旗下中基層獵才的正職代招收費方式。", "datePublished": "2026-11-07", "dateModified": "2026-11-07", "about": ["新竹作業員薪資", "正職代招"], "keywords": "新竹作業員薪資,新竹作業員招募,2027基本工資,竹科缺工,新竹代招,正職代招", "inLanguage": "zh-Hant-TW", "image": "https://job365hire.com.tw/hire/guide/cover-hsinchu-operator-salary.jpg?v=3", "author": {"@id": "https://job365hire.com.tw/#org"}, "publisher": {"@id": "https://job365hire.com.tw/#org"}, "mainEntityOfPage": "https://job365hire.com.tw/hire/guide/hsinchu-operator-salary.html"}, {"@context": "https://schema.org", "@type": "BreadcrumbList", "itemListElement": [{"@type": "ListItem", "position": 1, "name": "JOB365", "item": "https://job365hire.com.tw/"}, {"@type": "ListItem", "position": 2, "name": "正職代招", "item": "https://job365hire.com.tw/hire/"}, {"@type": "ListItem", "position": 3, "name": "招募指南", "item": "https://job365hire.com.tw/hire/guide/"}, {"@type": "ListItem", "position": 4, "name": "新竹作業員薪資行情"}]}, {"@context": "https://schema.org", "@type": "FAQPage", "mainEntity": [{"@type": "Question", "name": "2027 年基本工資是多少？", "acceptedAnswer": {"@type": "Answer", "text": "2027 年 1 月 1 日起，每月最低工資 30,900 元、每小時 205 元，由最低工資審議會於 2026 年 9 月 24 日決議。"}}, {"@type": "Question", "name": "新竹作業員薪資要開多少才有人投？", "acceptedAnswer": {"@type": "Answer", "text": "底薪不得低於 30,900 元；實際開價建議參考同區域、同班別的職缺，並寫出含津貼與加班的實拿範圍。"}}, {"@type": "Question", "name": "新竹中小企業怎麼跟竹科大廠搶作業員？", "acceptedAnswer": {"@type": "Answer", "text": "強調通勤近、班別穩定與福利亮點，並在履歷進來當天聯繫、早點給結果，用速度補足薪資差距。"}}, {"@type": "Question", "name": "新竹有作業員的正職代招服務嗎？", "acceptedAnswer": {"@type": "Answer", "text": "有。中基層獵才是日玖國際旗下團隊，總公司在新竹，人選報到才收費，只收第一個月、最多約一個月薪資。"}}]}]
 </script>
 
 <script>!function(f,b,e,v,n,t,s){if(f.fbq)return;n=f.fbq=function(){n.callMethod?n.callMethod.apply(n,arguments):n.queue.push(arguments)};if(!f._fbq)f._fbq=n;n.push=n;n.loaded=!0;n.version='2.0';n.queue=[];t=b.createElement(e);t.async=!0;t.src=v;s=b.getElementsByTagName(e)[0];s.parentNode.insertBefore(t,s)}(window,document,'script','https://connect.facebook.net/en_US/fbevents.js');fbq('init','1635805244779203');fbq('track','PageView');document.addEventListener('click',function(e){var a=e.target.closest&&e.target.closest('a[href]');if(a&&/^(tel:|https:\/\/(line\.me|lin\.ee)\/)/.test(a.getAttribute('href')))fbq('track','Contact');});</script>
@@ -107,6 +107,7 @@ visibleID = setInterval(() => {
   <p class="tag">招募行情</p>
   <h1>新竹作業員薪資行情怎麼看？2027 基本工資調漲後的招募重點</h1>
   <p class="meta">JOB365中基層獵才・2026 年 11 月 7 日</p>
+  <img class="cover" src="/hire/guide/cover-hsinchu-operator-salary.jpg?v=3" alt="新竹作業員薪資行情怎麼看？2027 基本工資調漲後的招募重點" width="1200" height="630" style="width:100%;height:auto">
 
   <p class="answer"><b>簡答：</b>2027 年起基本工資調為月薪 30,900 元、時薪 205 元，新竹作業員底薪不能低於這條線。竹科大廠持續搶人，中小企業要寫清楚實拿薪資範圍、班別與福利，並加快錄取，才招得到人。</p>
 

diff --git a/hire/guide/operator-hiring.html b/hire/guide/operator-hiring.html
@@ -79,10 +79,10 @@ visibleID = setInterval(() => {
 <meta property="og:type" content="article">
 <meta property="og:title" content="作業員招不到人怎麼辦？中小企業 6 個實用招募方法">
 <meta property="og:description" content="製造業職缺持續增加，作業員越來越難招。整理中小企業可以馬上做的 6 個方法：薪資寫清楚、班別說明、福利亮點、加快錄取流程、多管道曝光與交給正職代招。">
-<meta property="og:image" content="https://job365hire.com.tw/hire/guide/cover-operator-hiring.jpg?v=2">
+<meta property="og:image" content="https://job365hire.com.tw/hire/guide/cover-operator-hiring.jpg?v=3">
 <meta property="og:url" content="https://job365hire.com.tw/hire/guide/operator-hiring.html">
 <script type="application/ld+json">
-[{"@context": "https://schema.org", "@type": "Article", "headline": "作業員招不到人怎麼辦？中小企業 6 個實用招募方法", "datePublished": "2026-10-30", "dateModified": "2026-10-30", "about": "正職代招", "keywords": "作業員招不到人,作業員招募,工廠缺工,基層招募,正職代招", "inLanguage": "zh-Hant-TW", "image": "https://job365hire.com.tw/hire/guide/cover-operator-hiring.jpg?v=2", "author": {"@id": "https://job365hire.com.tw/#org"}, "publisher": {"@id": "https://job365hire.com.tw/#org"}, "mainEntityOfPage": "https://job365hire.com.tw/hire/guide/operator-hiring.html"}, {"@context": "https://schema.org", "@type": "BreadcrumbList", "itemListElement": [{"@type": "ListItem", "position": 1, "name": "JOB365", "item": "https://job365hire.com.tw/"}, {"@type": "ListItem", "position": 2, "name": "正職代招", "item": "https://job365hire.com.tw/hire/"}, {"@type": "ListItem", "position": 3, "name": "招募指南", "item": "https://job365hire.com.tw/hire/guide/"}, {"@type": "ListItem", "position": 4, "name": "作業員招不到人怎麼辦？"}]}, {"@context": "https://schema.org", "@type": "FAQPage", "mainEntity": [{"@type": "Question", "name": "為什麼作業員越來越難招？", "acceptedAnswer": {"@type": "Answer", "text": "勞動部調查顯示 2026 年 6 月底製造業職缺約 11.1 萬個、年增 27.2%，企業對外招募平均約 3.1 個月，搶人競爭變激烈。"}}, {"@type": "Question", "name": "作業員職缺薪資要怎麼寫比較有人投？", "acceptedAnswer": {"@type": "Answer", "text": "寫出含輪班津貼、全勤與加班的實拿範圍，例如月薪 32,000～38,000 元，比只寫基本工資起更吸引人。"}}, {"@type": "Question", "name": "2026 年基本工資是多少？", "acceptedAnswer": {"@type": "Answer", "text": "2026 年起基本工資為月薪 29,500 元、時薪 196 元。"}}, {"@type": "Question", "name": "作業員可以找代招嗎？", "acceptedAnswer": {"@type": "Answer", "text": "可以。中基層獵才專做作業員等中基層正職，人選報到才收費，只收第一個月、最多約一個月薪資。"}}]}]
+[{"@context": "https://schema.org", "@type": "Article", "headline": "作業員招不到人怎麼辦？中小企業 6 個實用招募方法", "datePublished": "2026-10-30", "dateModified": "2026-10-30", "about": "正職代招", "keywords": "作業員招不到人,作業員招募,工廠缺工,基層招募,正職代招", "inLanguage": "zh-Hant-TW", "image": "https://job365hire.com.tw/hire/guide/cover-operator-hiring.jpg?v=3", "author": {"@id": "https://job365hire.com.tw/#org"}, "publisher": {"@id": "https://job365hire.com.tw/#org"}, "mainEntityOfPage": "https://job365hire.com.tw/hire/guide/operator-hiring.html"}, {"@context": "https://schema.org", "@type": "BreadcrumbList", "itemListElement": [{"@type": "ListItem", "position": 1, "name": "JOB365", "item": "https://job365hire.com.tw/"}, {"@type": "ListItem", "position": 2, "name": "正職代招", "item": "https://job365hire.com.tw/hire/"}, {"@type": "ListItem", "position": 3, "name": "招募指南", "item": "https://job365hire.com.tw/hire/guide/"}, {"@type": "ListItem", "position": 4, "name": "作業員招不到人怎麼辦？"}]}, {"@context": "https://schema.org", "@type": "FAQPage", "mainEntity": [{"@type": "Question", "name": "為什麼作業員越來越難招？", "acceptedAnswer": {"@type": "Answer", "text": "勞動部調查顯示 2026 年 6 月底製造業職缺約 11.1 萬個、年增 27.2%，企業對外招募平均約 3.1 個月，搶人競爭變激烈。"}}, {"@type": "Question", "name": "作業員職缺薪資要怎麼寫比較有人投？", "acceptedAnswer": {"@type": "Answer", "text": "寫出含輪班津貼、全勤與加班的實拿範圍，例如月薪 32,000～38,000 元，比只寫基本工資起更吸引人。"}}, {"@type": "Question", "name": "2026 年基本工資是多少？", "acceptedAnswer": {"@type": "Answer", "text": "2026 年起基本工資為月薪 29,500 元、時薪 196 元。"}}, {"@type": "Question", "name": "作業員可以找代招嗎？", "acceptedAnswer": {"@type": "Answer", "text": "可以。中基層獵才專做作業員等中基層正職，人選報到才收費，只收第一個月、最多約一個月薪資。"}}]}]
 </script>
 
 <script>!function(f,b,e,v,n,t,s){if(f.fbq)return;n=f.fbq=function(){n.callMethod?n.callMethod.apply(n,arguments):n.queue.push(arguments)};if(!f._fbq)f._fbq=n;n.push=n;n.loaded=!0;n.version='2.0';n.queue=[];t=b.createElement(e);t.async=!0;t.src=v;s=b.getElementsByTagName(e)[0];s.parentNode.insertBefore(t,s)}(window,document,'script','https://connect.facebook.net/en_US/fbevents.js');fbq('init','1635805244779203');fbq('track','PageView');document.addEventListener('click',function(e){var a=e.target.closest&&e.target.closest('a[href]');if(a&&/^(tel:|https:\/\/(line\.me|lin\.ee)\/)/.test(a.getAttribute('href')))fbq('track','Contact');});</script>
@@ -107,7 +107,7 @@ visibleID = setInterval(() => {
   <p class="tag">招募技巧</p>
   <h1>作業員招不到人怎麼辦？中小企業 6 個實用招募方法</h1>
   <p class="meta">JOB365中基層獵才・2026 年 10 月 30 日</p>
-  <img class="cover" src="/hire/guide/cover-operator-hiring.jpg?v=2" alt="作業員招不到人怎麼辦？中小企業 6 個實用招募方法" width="1200" height="630" style="width:100%;height:auto">
+  <img class="cover" src="/hire/guide/cover-operator-hiring.jpg?v=3" alt="作業員招不到人怎麼辦？中小企業 6 個實用招募方法" width="1200" height="630" style="width:100%;height:auto">
 
   <p class="answer"><b>簡答：</b>作業員招不到人，可以先把實拿薪資範圍、班別與福利寫清楚，履歷進來當天聯繫、縮短錄取流程，並多管道曝光；人力不足時，可交給正職代招主動找人。</p>
 

diff --git a/hire/guide/hidden-hiring-cost.html b/hire/guide/hidden-hiring-cost.html
@@ -79,10 +79,10 @@ visibleID = setInterval(() => {
 <meta property="og:type" content="article">
 <meta property="og:title" content="招募成本怎麼算？中小企業自己招人的隱形成本試算">
 <meta property="og:description" content="招募成本不只人力銀行刊登費，還包括篩履歷、邀約、面試、職缺空窗與重招工時。用試算拆解中小企業自己招人的隱形成本，並比較正職代招的分工。">
-<meta property="og:image" content="https://job365hire.com.tw/hire/guide/cover-hidden-hiring-cost.jpg?v=2">
+<meta property="og:image" content="https://job365hire.com.tw/hire/guide/cover-hidden-hiring-cost.jpg?v=3">
 <meta property="og:url" content="https://job365hire.com.tw/hire/guide/hidden-hiring-cost.html">
 <script type="application/ld+json">
-[{"@context": "https://schema.org", "@type": "Article", "headline": "招募成本怎麼算？中小企業自己招人的隱形成本試算", "datePublished": "2026-10-30", "dateModified": "2026-11-11", "about": "正職代招", "keywords": "招募成本,招募成本計算,隱形招募成本,自己招人,正職代招", "inLanguage": "zh-Hant-TW", "image": "https://job365hire.com.tw/hire/guide/cover-hidden-hiring-cost.jpg?v=2", "author": {"@id": "https://job365hire.com.tw/#org"}, "publisher": {"@id": "https://job365hire.com.tw/#org"}, "mainEntityOfPage": "https://job365hire.com.tw/hire/guide/hidden-hiring-cost.html"}, {"@context": "https://schema.org", "@type": "BreadcrumbList", "itemListElement": [{"@type": "ListItem", "position": 1, "name": "JOB365", "item": "https://job365hire.com.tw/"}, {"@type": "ListItem", "position": 2, "name": "正職代招", "item": "https://job365hire.com.tw/hire/"}, {"@type": "ListItem", "position": 3, "name": "招募指南", "item": "https://job365hire.com.tw/hire/guide/"}, {"@type": "ListItem", "position": 4, "name": "自己招人的隱形成本"}]}, {"@context": "https://schema.org", "@type": "FAQPage", "mainEntity": [{"@type": "Question", "name": "招募成本包含哪些？", "acceptedAnswer": {"@type": "Answer", "text": "刊登費、HR 或主管的工時、職缺空窗造成的產能損失與同事加班，以及招錯人需要重來的成本。"}}, {"@type": "Question", "name": "HR 時薪怎麼換算？", "acceptedAnswer": {"@type": "Answer", "text": "月薪 ÷ 30 天 ÷ 8 小時，例如月薪 40,000 元約為時薪 167 元。"}}, {"@type": "Question", "name": "企業招募一個人平均要多久？", "acceptedAnswer": {"@type": "Answer", "text": "勞動部職缺調查顯示，企業對外招募平均約需 3.1 個月。"}}, {"@type": "Question", "name": "找正職代招會比較省嗎？", "acceptedAnswer": {"@type": "Answer", "text": "正職代招由顧問負責找人與篩人，中基層獵才只收人選第一個月、最多約一個月薪資，報到才收費。"}}]}]
+[{"@context": "https://schema.org", "@type": "Article", "headline": "招募成本怎麼算？中小企業自己招人的隱形成本試算", "datePublished": "2026-10-30", "dateModified": "2026-11-11", "about": "正職代招", "keywords": "招募成本,招募成本計算,隱形招募成本,自己招人,正職代招", "inLanguage": "zh-Hant-TW", "image": "https://job365hire.com.tw/hire/guide/cover-hidden-hiring-cost.jpg?v=3", "author": {"@id": "https://job365hire.com.tw/#org"}, "publisher": {"@id": "https://job365hire.com.tw/#org"}, "mainEntityOfPage": "https://job365hire.com.tw/hire/guide/hidden-hiring-cost.html"}, {"@context": "https://schema.org", "@type": "BreadcrumbList", "itemListElement": [{"@type": "ListItem", "position": 1, "name": "JOB365", "item": "https://job365hire.com.tw/"}, {"@type": "ListItem", "position": 2, "name": "正職代招", "item": "https://job365hire.com.tw/hire/"}, {"@type": "ListItem", "position": 3, "name": "招募指南", "item": "https://job365hire.com.tw/hire/guide/"}, {"@type": "ListItem", "position": 4, "name": "自己招人的隱形成本"}]}, {"@context": "https://schema.org", "@type": "FAQPage", "mainEntity": [{"@type": "Question", "name": "招募成本包含哪些？", "acceptedAnswer": {"@type": "Answer", "text": "刊登費、HR 或主管的工時、職缺空窗造成的產能損失與同事加班，以及招錯人需要重來的成本。"}}, {"@type": "Question", "name": "HR 時薪怎麼換算？", "acceptedAnswer": {"@type": "Answer", "text": "月薪 ÷ 30 天 ÷ 8 小時，例如月薪 40,000 元約為時薪 167 元。"}}, {"@type": "Question", "name": "企業招募一個人平均要多久？", "acceptedAnswer": {"@type": "Answer", "text": "勞動部職缺調查顯示，企業對外招募平均約需 3.1 個月。"}}, {"@type": "Question", "name": "找正職代招會比較省嗎？", "acceptedAnswer": {"@type": "Answer", "text": "正職代招由顧問負責找人與篩人，中基層獵才只收人選第一個月、最多約一個月薪資，報到才收費。"}}]}]
 </script>
 
 <script>!function(f,b,e,v,n,t,s){if(f.fbq)return;n=f.fbq=function(){n.callMethod?n.callMethod.apply(n,arguments):n.queue.push(arguments)};if(!f._fbq)f._fbq=n;n.push=n;n.loaded=!0;n.version='2.0';n.queue=[];t=b.createElement(e);t.async=!0;t.src=v;s=b.getElementsByTagName(e)[0];s.parentNode.insertBefore(t,s)}(window,document,'script','https://connect.facebook.net/en_US/fbevents.js');fbq('init','1635805244779203');fbq('track','PageView');document.addEventListener('click',function(e){var a=e.target.closest&&e.target.closest('a[href]');if(a&&/^(tel:|https:\/\/(line\.me|lin\.ee)\/)/.test(a.getAttribute('href')))fbq('track','Contact');});</script>
@@ -107,7 +107,7 @@ visibleID = setInterval(() => {
   <p class="tag">招募費用</p>
   <h1>招募成本怎麼算？中小企業自己招人的隱形成本試算</h1>
   <p class="meta">JOB365中基層獵才・2026 年 10 月 30 日</p>
-  <img class="cover" src="/hire/guide/cover-hidden-hiring-cost.jpg?v=2" alt="招募成本怎麼算？中小企業自己招人的隱形成本試算" width="1200" height="630" style="width:100%;height:auto">
+  <img class="cover" src="/hire/guide/cover-hidden-hiring-cost.jpg?v=3" alt="招募成本怎麼算？中小企業自己招人的隱形成本試算" width="1200" height="630" style="width:100%;height:auto">
 
   <p class="answer"><b>簡答：</b>自己招人的成本不只刊登費，還包括 HR 或主管篩履歷、邀約、面試的工時，職缺空窗的產能損失，以及招錯人重來的成本；企業對外招募平均約需 3.1 個月。職缺已經空了一段時間、HR 或主管又抽不出時間篩人時，可以把找人交給正職代招，人選報到才收費，最多約一個月薪資。</p>
 

diff --git a/hire/guide/interview-no-show.html b/hire/guide/interview-no-show.html
@@ -79,10 +79,10 @@ visibleID = setInterval(() => {
 <meta property="og:type" content="article">
 <meta property="og:title" content="面試爽約怎麼辦？降低求職者放鴿子的 7 個做法">
 <meta property="og:description" content="約好的面試人沒來，是中小企業 HR 最常見的困擾。整理 7 個降低面試爽約的實用做法：快速聯繫、清楚的邀約訊息、前一天提醒、彈性時段、縮短流程等。">
-<meta property="og:image" content="https://job365hire.com.tw/hire/guide/cover-interview-no-show.jpg?v=2">
+<meta property="og:image" content="https://job365hire.com.tw/hire/guide/cover-interview-no-show.jpg?v=3">
 <meta property="og:url" content="https://job365hire.com.tw/hire/guide/interview-no-show.html">
 <script type="application/ld+json">
-[{"@context": "https://schema.org", "@type": "Article", "headline": "面試爽約怎麼辦？降低求職者放鴿子的 7 個做法", "datePublished": "2026-10-30", "dateModified": "2026-10-30", "about": "正職代招", "keywords": "面試爽約,面試放鴿子,面試沒來,降低爽約率,招募技巧", "inLanguage": "zh-Hant-TW", "image": "https://job365hire.com.tw/hire/guide/cover-interview-no-show.jpg?v=2", "author": {"@id": "https://job365hire.com.tw/#org"}, "publisher": {"@id": "https://job365hire.com.tw/#org"}, "mainEntityOfPage": "https://job365hire.com.tw/hire/guide/interview-no-show.html"}, {"@context": "https://schema.org", "@type": "BreadcrumbList", "itemListElement": [{"@type": "ListItem", "position": 1, "name": "JOB365", "item": "https://job365hire.com.tw/"}, {"@type": "ListItem", "position": 2, "name": "正職代招", "item": "https://job365hire.com.tw/hire/"}, {"@type": "ListItem", "position": 3, "name": "招募指南", "item": "https://job365hire.com.tw/hire/guide/"}, {"@type": "ListItem", "position": 4, "name": "面試爽約怎麼辦？"}]}, {"@context": "https://schema.org", "@type": "FAQPage", "mainEntity": [{"@type": "Question", "name": "求職者為什麼會面試爽約？", "acceptedAnswer": {"@type": "Answer", "text": "常見原因包括臨時有事、身體不適、覺得公司不適合，或已經找到其他工作。"}}, {"@type": "Question", "name": "面試前要提醒幾次？", "acceptedAnswer": {"@type": "Answer", "text": "建議前一天確認一次、當天出發前再提醒一次。"}}, {"@type": "Question", "name": "面試邀約訊息要寫哪些內容？", "acceptedAnswer": {"@type": "Answer", "text": "日期時間、公司名稱、詳細地址與地圖連結、交通與停車資訊、要帶的證件、聯絡人與電話。"}}, {"@type": "Question", "name": "代招可以降低爽約嗎？", "acceptedAnswer": {"@type": "Answer", "text": "中基層獵才顧問會先與人選一對一面談，確認意願、班別與通勤後才推薦，企業只需面試有意願的人選。"}}]}]
+[{"@context": "https://schema.org", "@type": "Article", "headline": "面試爽約怎麼辦？降低求職者放鴿子的 7 個做法", "datePublished": "2026-10-30", "dateModified": "2026-10-30", "about": "正職代招", "keywords": "面試爽約,面試放鴿子,面試沒來,降低爽約率,招募技巧", "inLanguage": "zh-Hant-TW", "image": "https://job365hire.com.tw/hire/guide/cover-interview-no-show.jpg?v=3", "author": {"@id": "https://job365hire.com.tw/#org"}, "publisher": {"@id": "https://job365hire.com.tw/#org"}, "mainEntityOfPage": "https://job365hire.com.tw/hire/guide/interview-no-show.html"}, {"@context": "https://schema.org", "@type": "BreadcrumbList", "itemListElement": [{"@type": "ListItem", "position": 1, "name": "JOB365", "item": "https://job365hire.com.tw/"}, {"@type": "ListItem", "position": 2, "name": "正職代招", "item": "https://job365hire.com.tw/hire/"}, {"@type": "ListItem", "position": 3, "name": "招募指南", "item": "https://job365hire.com.tw/hire/guide/"}, {"@type": "ListItem", "position": 4, "name": "面試爽約怎麼辦？"}]}, {"@context": "https://schema.org", "@type": "FAQPage", "mainEntity": [{"@type": "Question", "name": "求職者為什麼會面試爽約？", "acceptedAnswer": {"@type": "Answer", "text": "常見原因包括臨時有事、身體不適、覺得公司不適合，或已經找到其他工作。"}}, {"@type": "Question", "name": "面試前要提醒幾次？", "acceptedAnswer": {"@type": "Answer", "text": "建議前一天確認一次、當天出發前再提醒一次。"}}, {"@type": "Question", "name": "面試邀約訊息要寫哪些內容？", "acceptedAnswer": {"@type": "Answer", "text": "日期時間、公司名稱、詳細地址與地圖連結、交通與停車資訊、要帶的證件、聯絡人與電話。"}}, {"@type": "Question", "name": "代招可以降低爽約嗎？", "acceptedAnswer": {"@type": "Answer", "text": "中基層獵才顧問會先與人選一對一面談，確認意願、班別與通勤後才推薦，企業只需面試有意願的人選。"}}]}]
 </script>
 
 <script>!function(f,b,e,v,n,t,s){if(f.fbq)return;n=f.fbq=function(){n.callMethod?n.callMethod.apply(n,arguments):n.queue.push(arguments)};if(!f._fbq)f._fbq=n;n.push=n;n.loaded=!0;n.version='2.0';n.queue=[];t=b.createElement(e);t.async=!0;t.src=v;s=b.getElementsByTagName(e)[0];s.parentNode.insertBefore(t,s)}(window,document,'script','https://connect.facebook.net/en_US/fbevents.js');fbq('init','1635805244779203');fbq('track','PageView');document.addEventListener('click',function(e){var a=e.target.closest&&e.target.closest('a[href]');if(a&&/^(tel:|https:\/\/(line\.me|lin\.ee)\/)/.test(a.getAttribute('href')))fbq('track','Contact');});</script>
@@ -107,7 +107,7 @@ visibleID = setInterval(() => {
   <p class="tag">招募技巧</p>
   <h1>面試爽約怎麼辦？降低求職者放鴿子的 7 個做法</h1>
   <p class="meta">JOB365中基層獵才・2026 年 10 月 30 日</p>
-  <img class="cover" src="/hire/guide/cover-interview-no-show.jpg?v=2" alt="面試爽約怎麼辦？降低求職者放鴿子的 7 個做法" width="1200" height="630" style="width:100%;height:auto">
+  <img class="cover" src="/hire/guide/cover-interview-no-show.jpg?v=3" alt="面試爽約怎麼辦？降低求職者放鴿子的 7 個做法" width="1200" height="630" style="width:100%;height:auto">
 
   <p class="answer"><b>簡答：</b>降低面試爽約最有用的做法是：履歷進來當天聯繫、邀約訊息寫清楚時間地址與交通、面試前一天和當天各提醒一次、提供彈性時段並縮短面試流程。</p>
 
